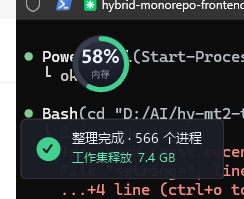
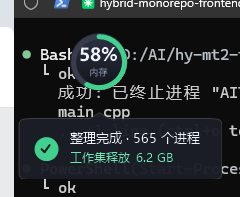
feat: 气泡加指向球的尖角
- 圆角矩形和尖角画成同一条路径，描边不露接缝
- 上/下自动选边，尖角对准球心并按圆角内收
- 清理开始时收起上一轮气泡，避免和转圈同时出现

diff --git a/src/main.cpp b/src/main.cpp
@@ -1506,7 +1506,31 @@ static void ToastShow(int count, double freedMB) {
     const int padX = S(16), padY = S(12), iconW = S(24), gap = S(10);
     const int textW = (int)std::max(b1.Width, b2.Width) + S(2);
     g_toastW = padX * 2 + iconW + gap + textW;
-    g_toastH = padY * 2 + (int)b1.Height + (int)b2.Height + S(3);
+    const int bodyH = padY * 2 + (int)b1.Height + (int)b2.Height + S(3);
+    const int tailH = S(6), tailHalf = S(10);
+
+    // 先定位置：上方放得下就放上面，否则放下面；尖角始终指向球心
+    RECT br{}, work{};
+    GetWindowRect(g_ball, &br);
+    MONITORINFO mi{ sizeof(mi) };
+    HMONITOR mon = MonitorFromWindow(g_ball, MONITOR_DEFAULTTONEAREST);
+    if (mon && GetMonitorInfoW(mon, &mi)) work = mi.rcWork;
+    else SystemParametersInfoW(SPI_GETWORKAREA, 0, &work, 0);
+
+    g_toastH = bodyH + tailH;
+    const bool tailUp = (br.top - (bodyH + tailH) - S(6)) < ((int)work.top + S(4));
+
+    int bx = br.left + ((br.right - br.left) - g_toastW) / 2;
+    int by = tailUp ? br.bottom + S(6) : br.top - g_toastH - S(6);
+    bx = std::max((int)work.left + S(4), std::min(bx, (int)work.right - g_toastW - S(4)));
+
+    const int bodyTop = tailUp ? tailH : 0;
+
+    // 尖角在气泡里的横坐标：对着球心，再夹在圆角之间，不会顶到边
+    int tipX = (br.left + br.right) / 2 - bx;
+    const int tipMin = S(14) + tailHalf;
+    const int tipMax = g_toastW - S(14) - tailHalf;
+    tipX = std::max(tipMin, std::min(tipX, tipMax));
 
     HDC screen = GetDC(nullptr);
     BITMAPINFO bi{};
@@ -1530,12 +1554,35 @@ static void ToastShow(int count, double freedMB) {
         g.SetTextRenderingHint(Gdiplus::TextRenderingHintAntiAliasGridFit);
 
         const Gdiplus::REAL rr = (Gdiplus::REAL)S(10);
-        const Gdiplus::REAL wR = (Gdiplus::REAL)g_toastW, hR = (Gdiplus::REAL)g_toastH;
+        const Gdiplus::REAL wR = (Gdiplus::REAL)g_toastW;
+        const Gdiplus::REAL top = (Gdiplus::REAL)bodyTop;
+        const Gdiplus::REAL bot = top + (Gdiplus::REAL)bodyH;
+        const Gdiplus::REAL tX = (Gdiplus::REAL)tipX;
+        const Gdiplus::REAL tHalf = (Gdiplus::REAL)tailHalf;
+        const Gdiplus::REAL tH = (Gdiplus::REAL)tailH;
+
+        // 圆角矩形 + 尖角画成同一条路径：填充和描边都不会在接缝处出现一条线
         Gdiplus::GraphicsPath path;
-        path.AddArc(0.5f, 0.5f, rr, rr, 180.0f, 90.0f);
-        path.AddArc(wR - rr - 0.5f, 0.5f, rr, rr, 270.0f, 90.0f);
-        path.AddArc(wR - rr - 0.5f, hR - rr - 0.5f, rr, rr, 0.0f, 90.0f);
-        path.AddArc(0.5f, hR - rr - 0.5f, rr, rr, 90.0f, 90.0f);
+        path.AddArc(0.5f, top + 0.5f, rr, rr, 180.0f, 90.0f);
+        if (tailUp) {
+            path.AddLine(rr, top, tX - tHalf, top);
+            path.AddLine(tX - tHalf, top, tX, top - tH);
+            path.AddLine(tX, top - tH, tX + tHalf, top);
+            path.AddLine(tX + tHalf, top, wR - rr, top);
+        } else {
+            path.AddLine(rr, top, wR - rr, top);
+        }
+        path.AddArc(wR - rr - 0.5f, top + 0.5f, rr, rr, 270.0f, 90.0f);
+        path.AddArc(wR - rr - 0.5f, bot - rr - 0.5f, rr, rr, 0.0f, 90.0f);
+        if (!tailUp) {
+            path.AddLine(wR - rr, bot, tX + tHalf, bot);
+            path.AddLine(tX + tHalf, bot, tX, bot + tH);
+            path.AddLine(tX, bot + tH, tX - tHalf, bot);
+            path.AddLine(tX - tHalf, bot, rr, bot);
+        } else {
+            path.AddLine(wR - rr, bot, rr, bot);
+        }
+        path.AddArc(0.5f, bot - rr - 0.5f, rr, rr, 90.0f, 90.0f);
         path.CloseFigure();
 
         Gdiplus::SolidBrush bg(Gdiplus::Color(244, 26, 29, 38));
@@ -1544,7 +1591,8 @@ static void ToastShow(int count, double freedMB) {
         g.DrawPath(&edge, &path);
 
         // 左侧勾：一个绿圆 + 两道白线，比 emoji 稳定
-        float iconCx = padX + iconW / 2.0f, iconCy = g_toastH / 2.0f;
+        float iconCx = padX + iconW / 2.0f;
+        float iconCy = (Gdiplus::REAL)bodyTop + bodyH / 2.0f;
         Gdiplus::SolidBrush ok(Gdiplus::Color(255, 66, 208, 142));
         g.FillEllipse(&ok, iconCx - iconW / 2.0f, iconCy - iconW / 2.0f, (Gdiplus::REAL)iconW, (Gdiplus::REAL)iconW);
         Gdiplus::Pen tick(Gdiplus::Color(255, 22, 24, 30), (Gdiplus::REAL)S(2));
@@ -1555,29 +1603,15 @@ static void ToastShow(int count, double freedMB) {
         g.DrawLine(&tick, tx + S(3), ty + S(3), tx + S(8), ty - S(4));
 
         float textX = (float)(padX + iconW + gap);
+        float textY = (Gdiplus::REAL)bodyTop + padY;
         Gdiplus::SolidBrush t1(Gdiplus::Color(255, 237, 241, 248));
         Gdiplus::SolidBrush t2(Gdiplus::Color(255, 110, 231, 183));
         Gdiplus::StringFormat sf;
         sf.SetAlignment(Gdiplus::StringAlignmentNear);
-        g.DrawString(g_toastL1.c_str(), -1, &f1, Gdiplus::PointF(textX, (Gdiplus::REAL)padY), &sf, &t1);
+        g.DrawString(g_toastL1.c_str(), -1, &f1, Gdiplus::PointF(textX, textY), &sf, &t1);
         g.DrawString(g_toastL2.c_str(), -1, &f2,
-                     Gdiplus::PointF(textX, (Gdiplus::REAL)padY + b1.Height + S(2)), &sf, &t2);
+                     Gdiplus::PointF(textX, textY + b1.Height + S(2)), &sf, &t2);
     }
-
-    // 摆在球上方，顶不下就放下方
-    RECT br{}, work{};
-    GetWindowRect(g_ball, &br);
-    // 球可能在外接屏上，这里要按球所在那块屏的工作区摆，不能用主屏的
-    MONITORINFO mi{ sizeof(mi) };
-    HMONITOR mon = MonitorFromWindow(g_ball, MONITOR_DEFAULTTONEAREST);
-    if (mon && GetMonitorInfoW(mon, &mi))
-        work = mi.rcWork;
-    else
-        SystemParametersInfoW(SPI_GETWORKAREA, 0, &work, 0);
-    int bx = br.left + ((br.right - br.left) - g_toastW) / 2;
-    int by = br.top - g_toastH - S(10);
-    if (by < work.top + S(4)) by = br.bottom + S(10);
-    bx = std::max((int)work.left + S(4), std::min(bx, (int)work.right - g_toastW - S(4)));
 
     SetWindowPos(g_toast, HWND_TOPMOST, bx, by, g_toastW, g_toastH,
                  SWP_NOACTIVATE | SWP_SHOWWINDOW);
@@ -1764,6 +1798,7 @@ static void SaveBallPos() {
 
 static void BallStartClean(HWND h) {
     if (g_ballCleaning) return;
+    ToastHide();               // 上一轮的气泡别和这次的转圈同时出现
     g_ballCleaning = true;
     g_ballSpin = 0;
     BallKick();
